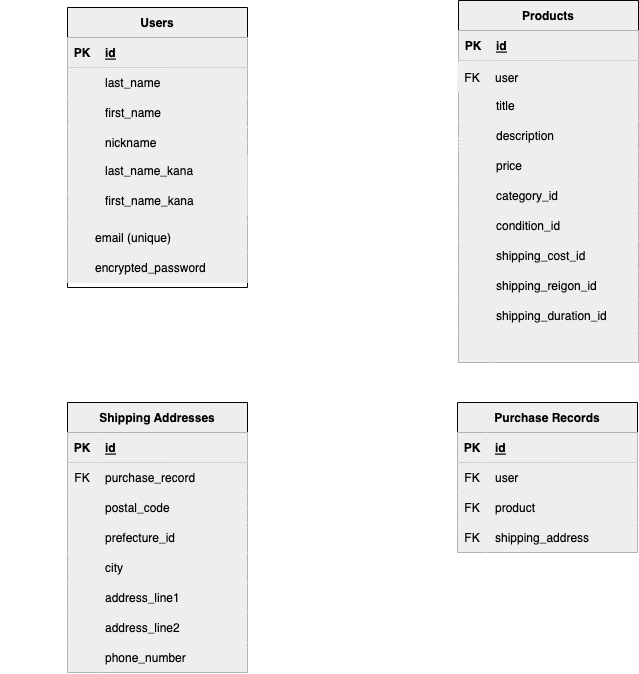
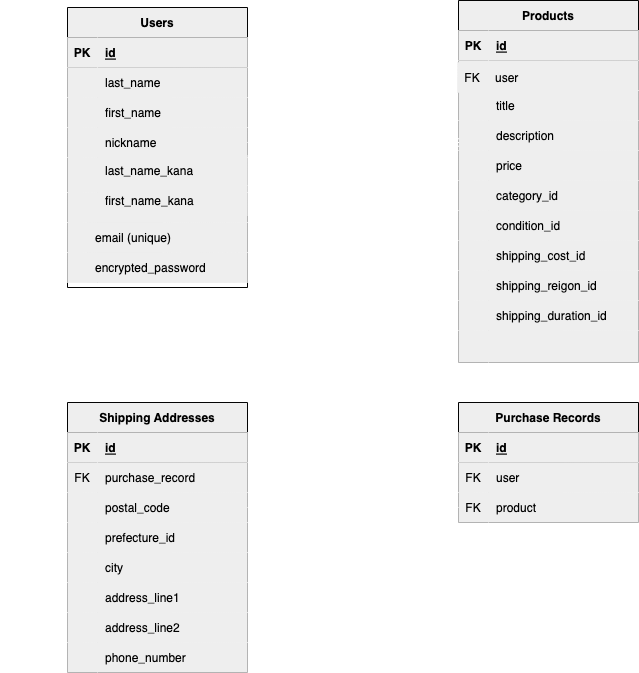
購入記録テーブルにある外部キーの削除

diff --git a/README.md b/README.md
@@ -47,7 +47,7 @@
 | ------              | ---------- | ------------------- |
 | user                | references | null: false, foreign_key: true |
 | product             | references | null: false, foreign_key: true |
-| shipping_address_id | references | null: false, foreign_key: true |
+
 
 ### Association
 
